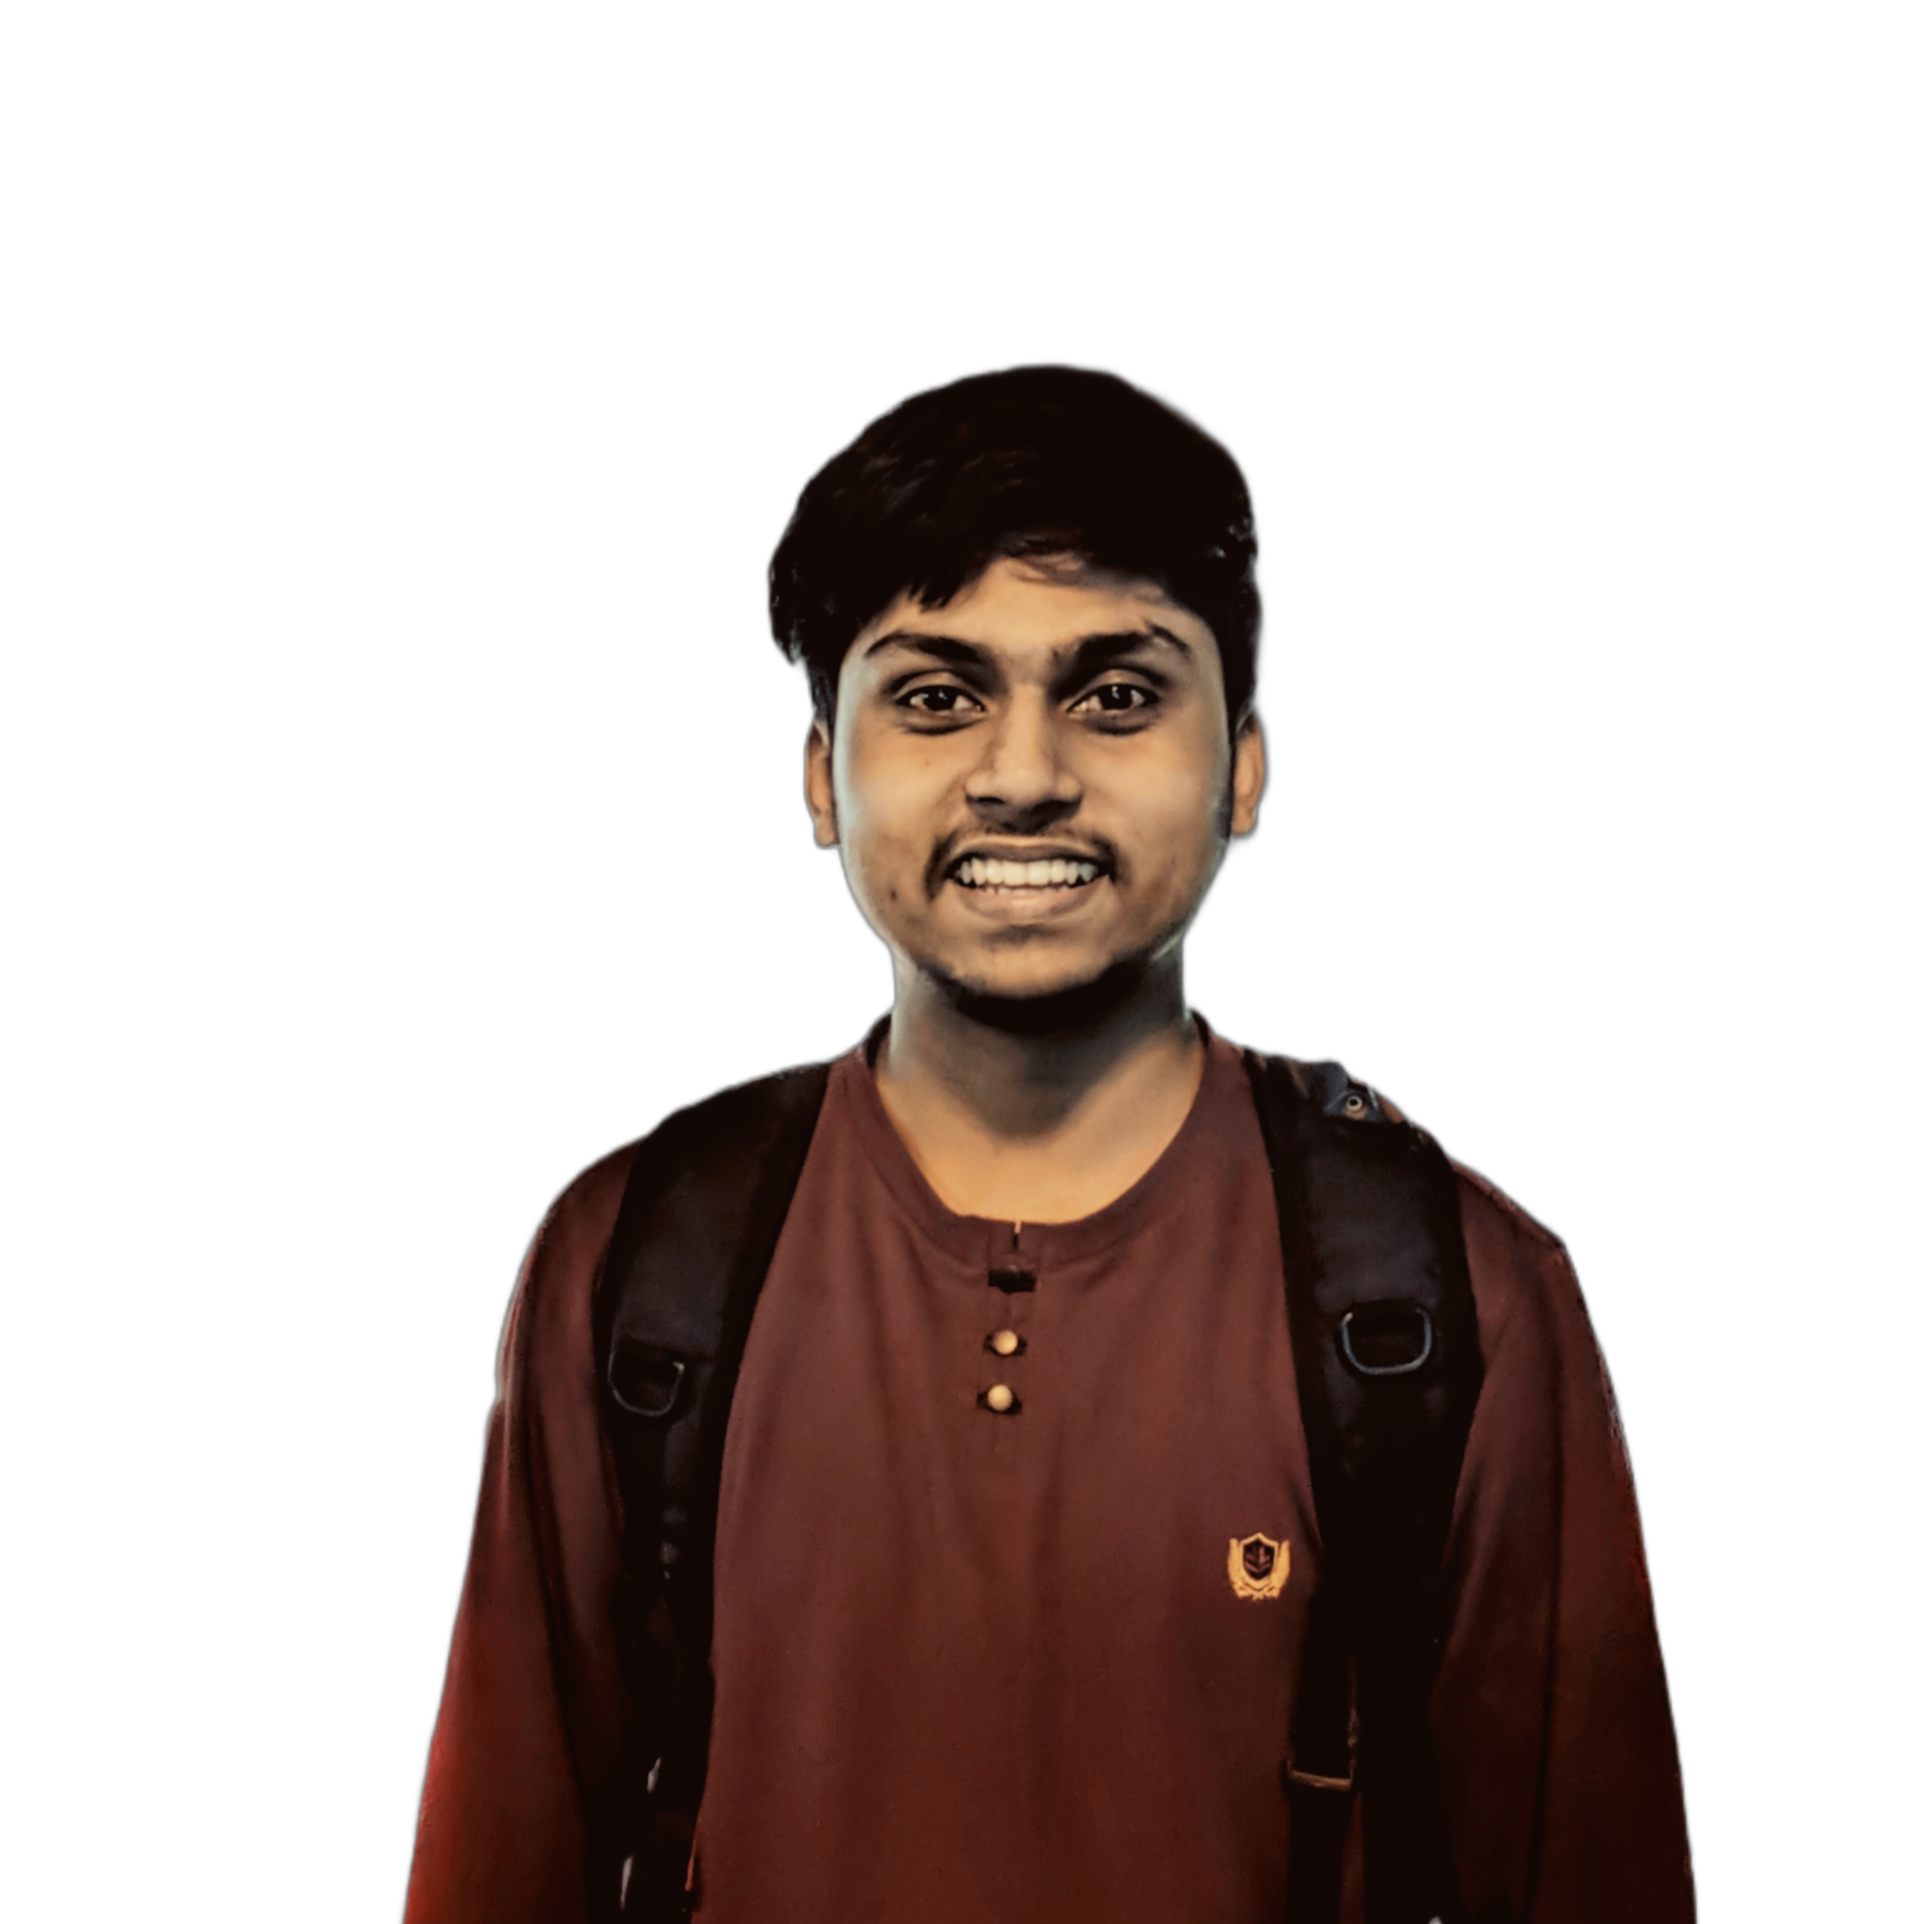
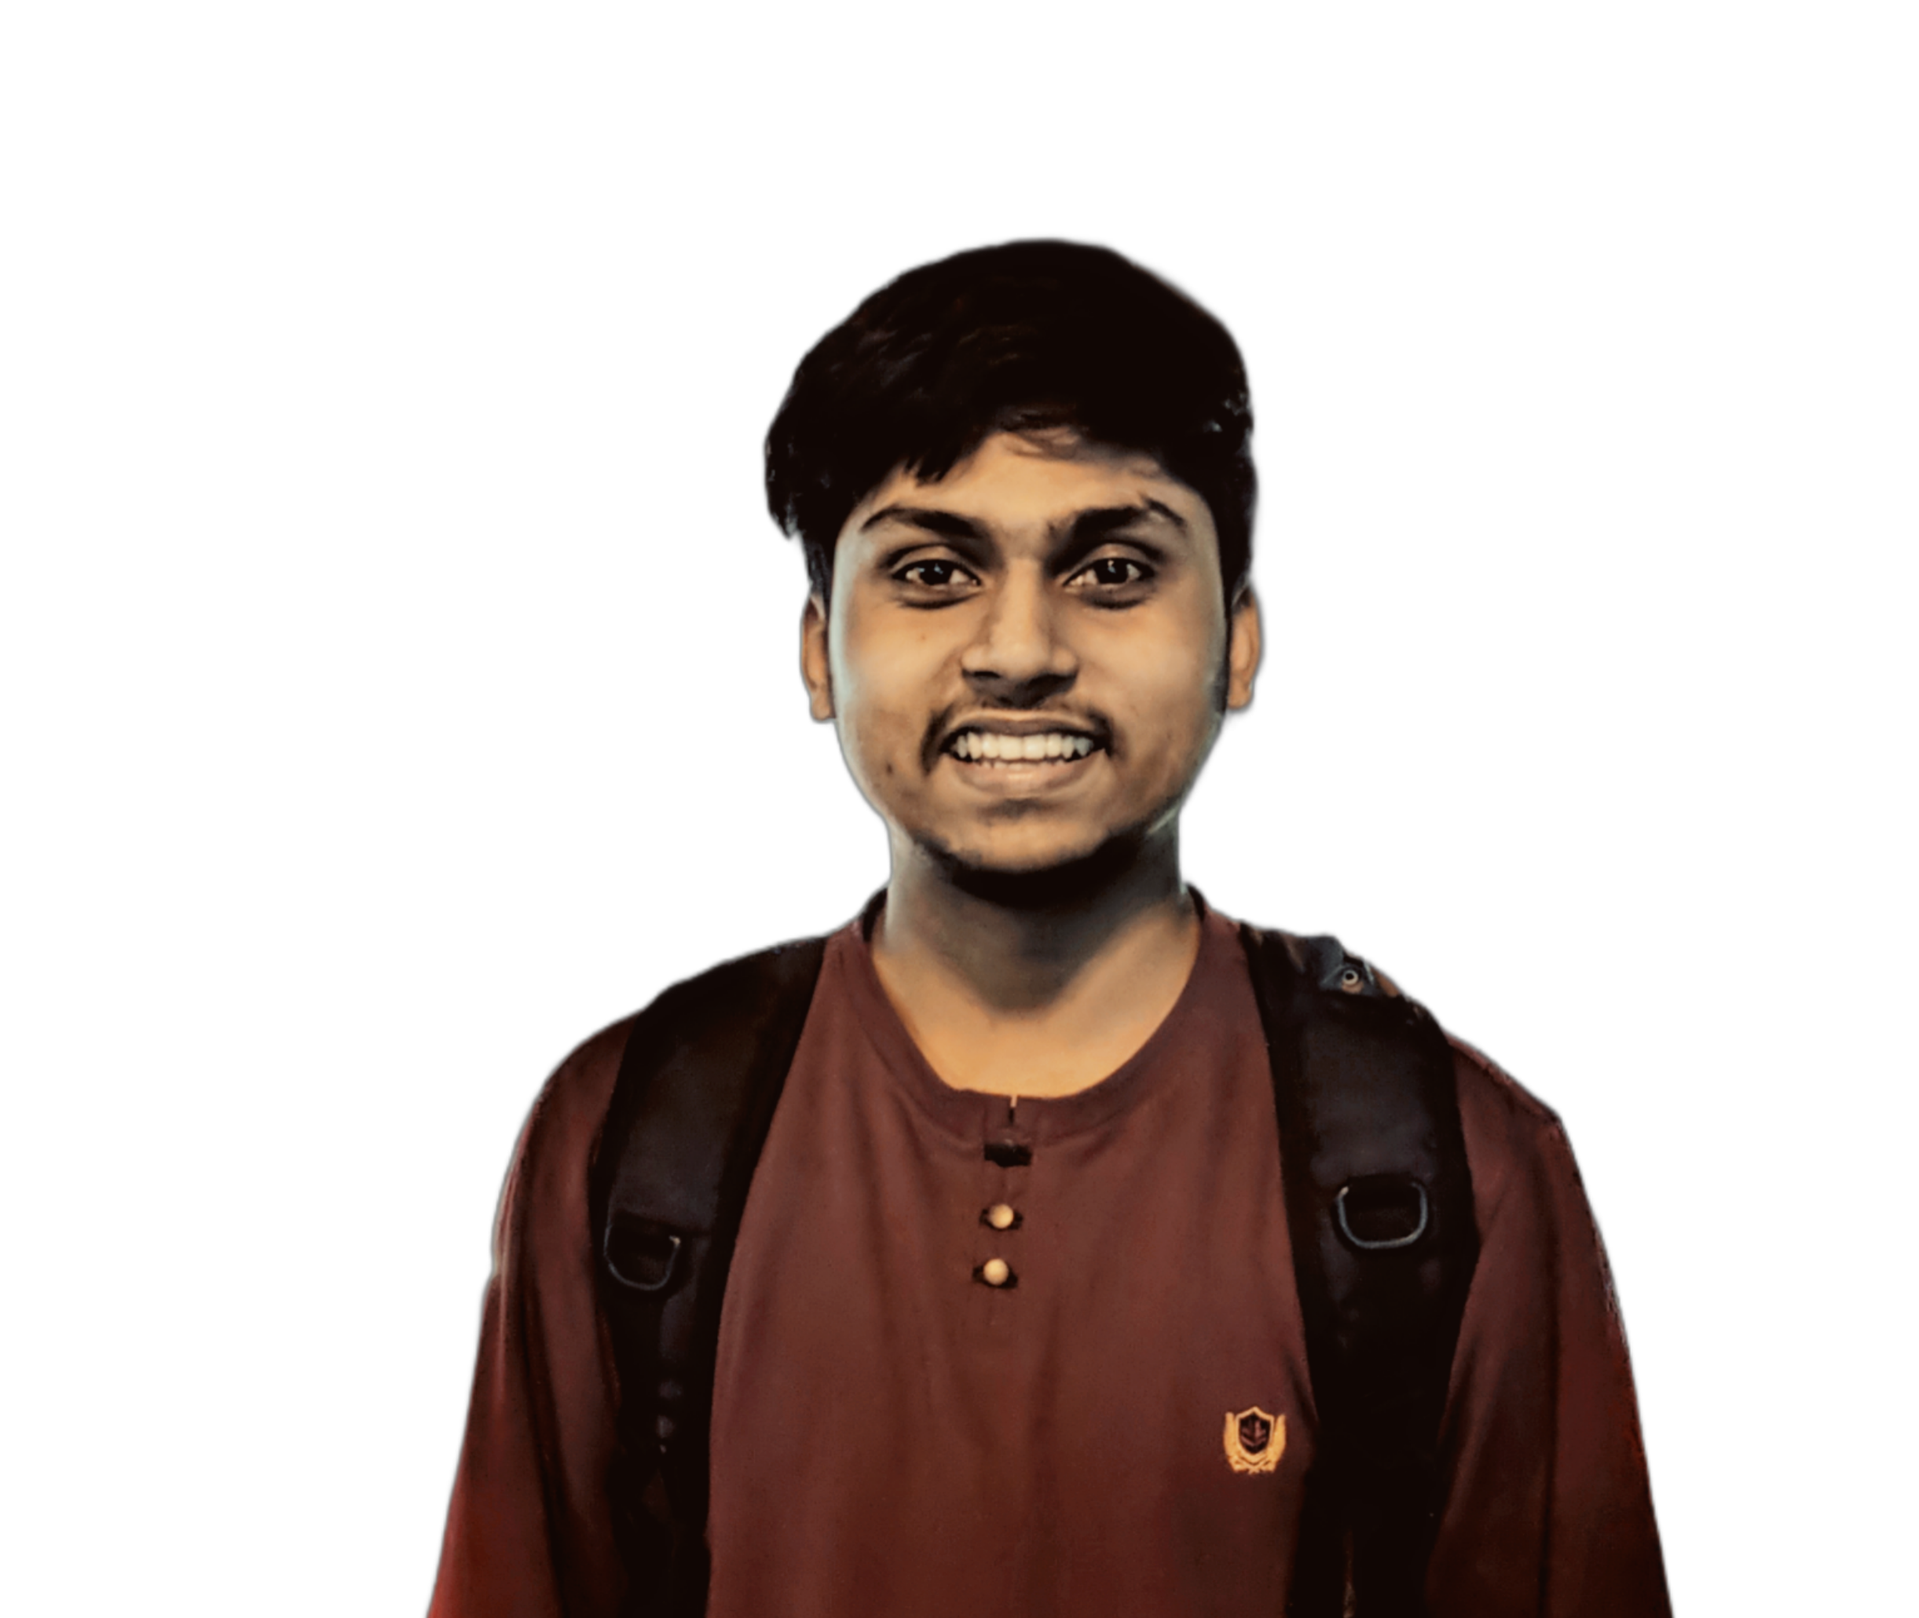
round profile picture

Changed region(s): [[0.1867, 0.1243, 0.9022, 1.0], [0.3422, 0.932, 0.3733, 1.0], [0.6533, 0.9631, 0.6844, 1.0]]

diff --git a/src/components/cards/profile/profilePicture.css b/src/components/cards/profile/profilePicture.css
@@ -1,8 +1,12 @@
 .profile-picture-container {
-  @apply w-3/5 ring-8 ring-red-200 object-bottom object-cover flex flex-col items-center justify-end bg-red-400 rounded-b-full;
-  @apply md:w-2/5 lg:w-1/4 lg:h-64;
+  @apply flex justify-center items-center m-6;
 }
 
 .profile-picture {
-  @apply rounded-b-full;
+  @apply rounded-full overflow-hidden ring-8 ring-gray-200 bg-gray-400;
+  @apply w-48 h-48;
+}
+
+.picture {
+  @apply rounded-full object-cover overflow-hidden w-full h-full;
 }

diff --git a/src/components/cards/profile/ProfilePicture.jsx b/src/components/cards/profile/ProfilePicture.jsx
@@ -4,11 +4,9 @@ import './profilePicture.css'
 const ProfilePicture = (props) => {
   return (
     <div className="profile-picture-container">
-      <img
-        className="profile-picture"
-        src={props.picture}
-        alt="profile picture"
-      />
+      <div className="profile-picture">
+        <img className="picture" src={props.picture} alt="profile picture" />
+      </div>
     </div>
   )
 }

diff --git a/src/components/cards/profile/Profile.jsx b/src/components/cards/profile/Profile.jsx
@@ -8,10 +8,6 @@ const Profile = (props) => {
       {/* If exist render */}
       {props.info.title ? <h2>{props.info.title}</h2> : ''}
       <p>{props.info.about} </p>
-      <div className="hr">
-        <br />
-        <br />
-      </div>
     </div>
   )
 }
